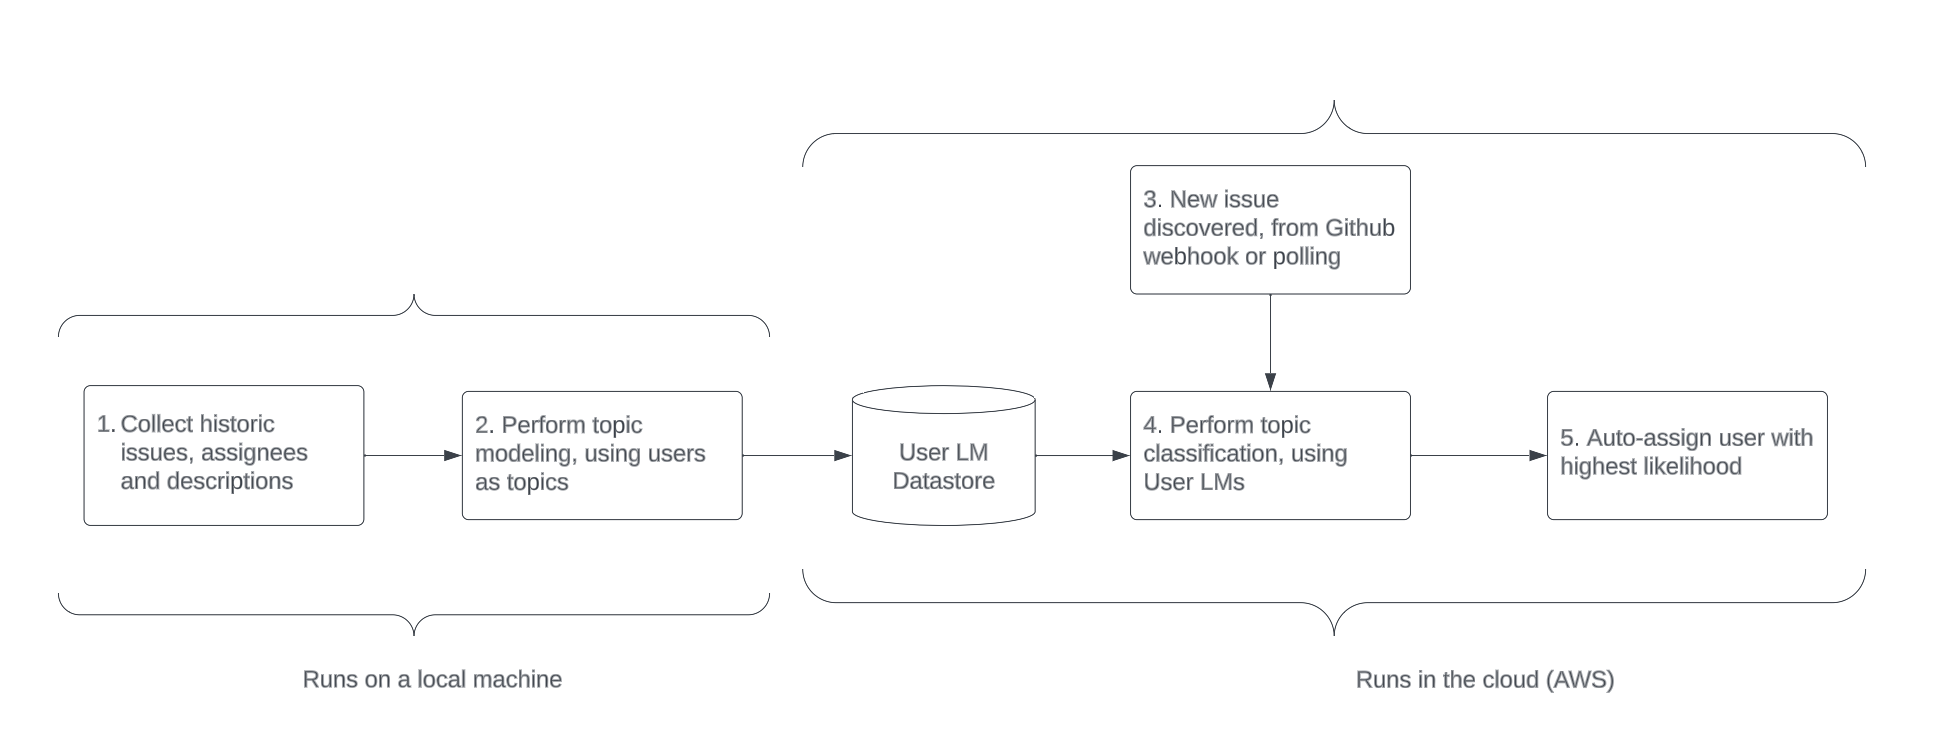
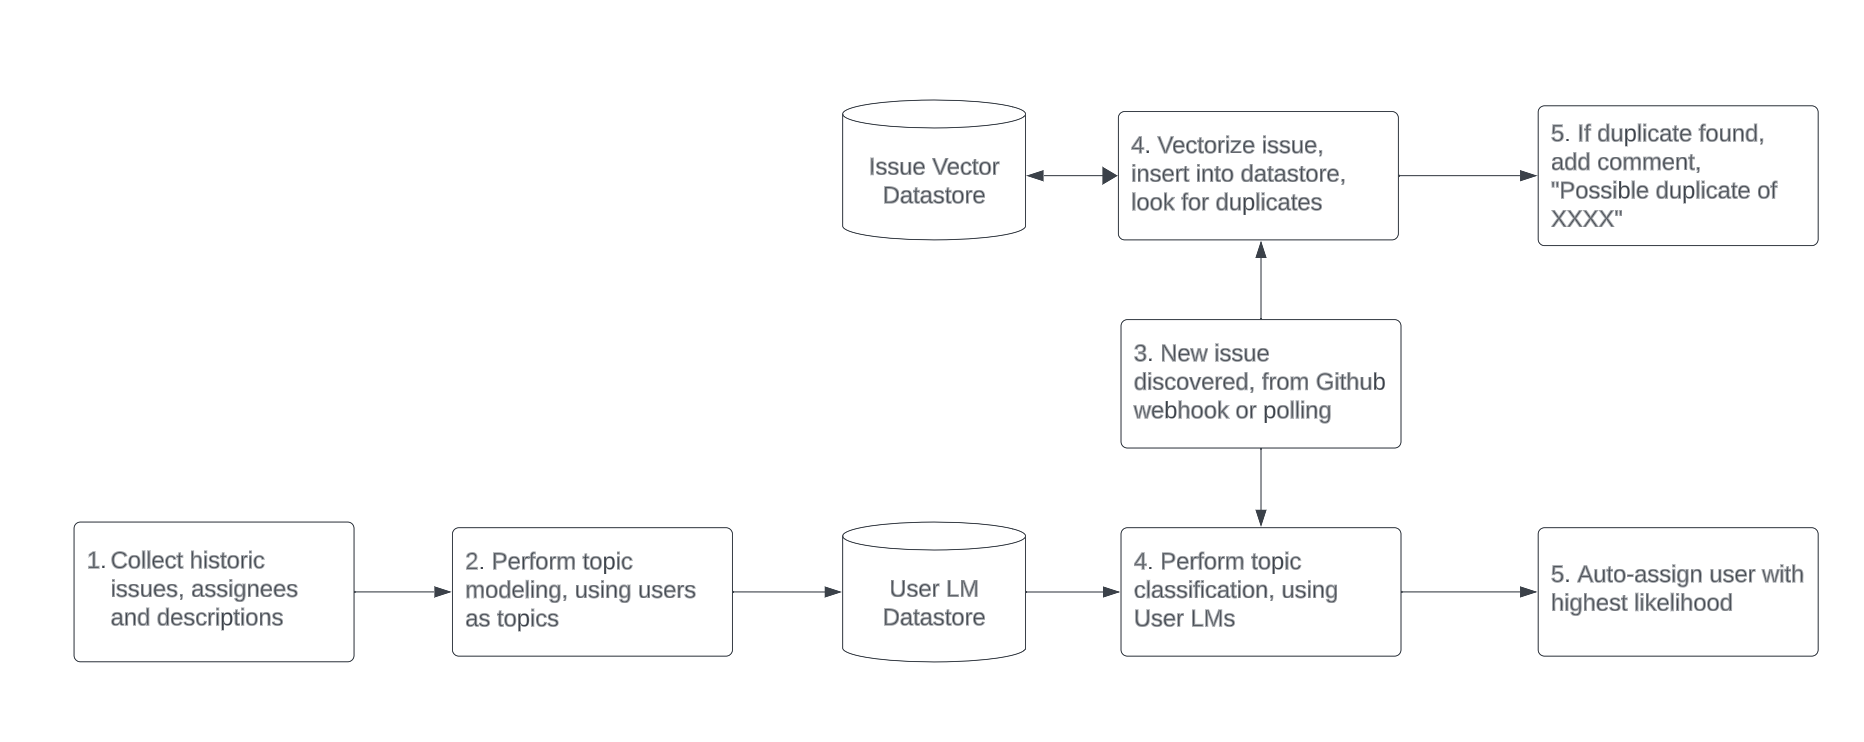
Updated process flow to include issue deduplication

diff --git a/docs/README.md b/docs/README.md
@@ -4,6 +4,9 @@ Process flow:
 ![Alt text](process-flow.png)
 
 
+## Technical Architecture
+NOTE: these diagrams only show the process for issue triage / classification. The architecture for issue de-duplication is the same, but the data-store may be changed to suite better querying of vectors.
+
 Technical architecture - Using Github Webhooks:
 ![Alt text](technical-architecture-webhooks.png)
 - This solution is fully automatic, once the discovery script has been run, all new issues are classified on creation.
